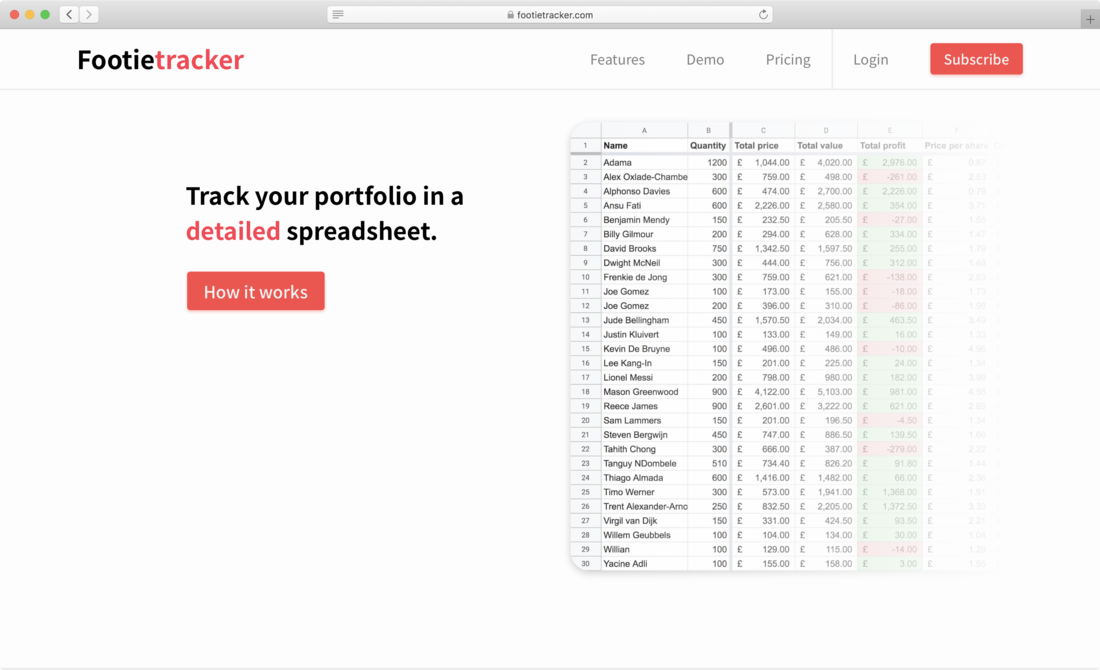
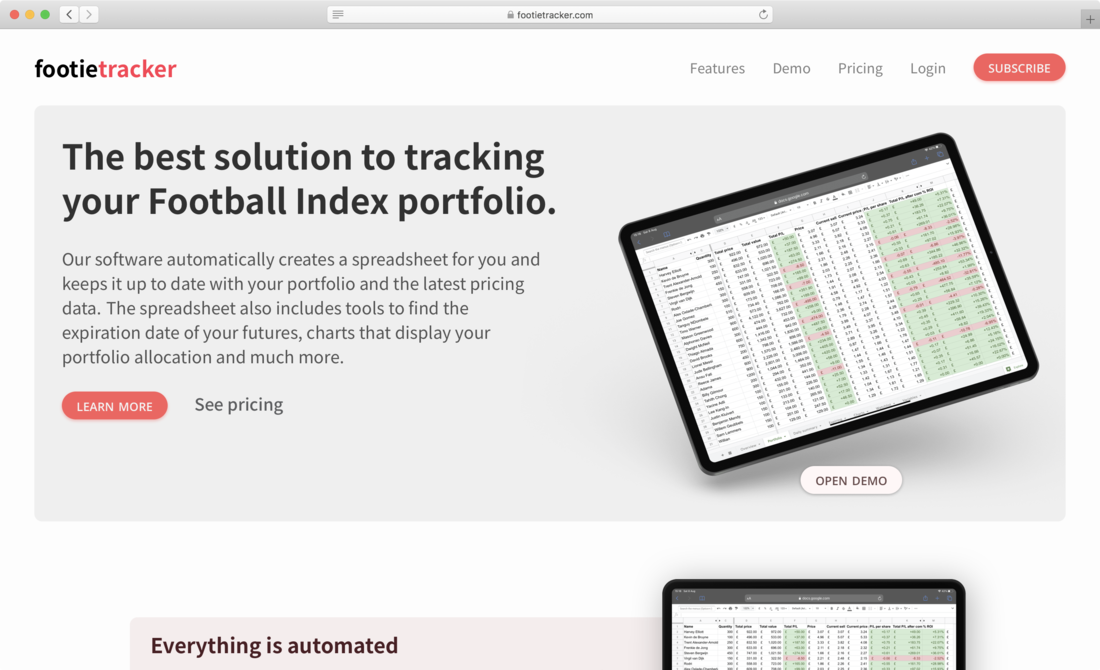
Update Footietracker image and add shadow to single showcase images

diff --git a/assets/styles/pages/index.scss b/assets/styles/pages/index.scss
@@ -100,6 +100,11 @@ section.work {
           height: auto;
         }
       }
+      div.showcase.single {
+        img {
+          box-shadow: 0px 1px 7px rgba(0, 0, 0, 0.1);
+        }
+      }
       div.showcase.double {
         display: flex;
         flex-direction: row;

diff --git a/content/work/footietracker/index.en.md b/content/work/footietracker/index.en.md
@@ -2,7 +2,7 @@
 draft = false
 title = "Footietracker"
 date = 2019-04-05T23:26:14+01:00
-weight = 4
+weight = 3
 
 endDate = 2020-01-05T23:26:14+01:00
 company = "Footietracker"

diff --git a/content/work/footietracker/index.nl.md b/content/work/footietracker/index.nl.md
@@ -2,7 +2,7 @@
 draft = false
 title = "Footietracker"
 date = 2019-04-05T23:26:14+01:00
-weight = 4
+weight = 3
 
 endDate = 2020-01-05T23:26:14+01:00
 company = "Footietracker"

diff --git a/content/work/benmar-ltd/index.en.md b/content/work/benmar-ltd/index.en.md
@@ -2,7 +2,7 @@
 draft = false
 title = "Benmar Ltd."
 date = 2018-06-30T23:26:14+01:00
-weight = 1
+weight = 4
 
 endDate = 2020-01-05T23:26:14+01:00
 company = "Benmar Limited"

diff --git a/content/work/benmar-ltd/index.nl.md b/content/work/benmar-ltd/index.nl.md
@@ -2,7 +2,7 @@
 draft = false
 title = "Benmar Ltd."
 date = 2018-06-30T23:26:14+01:00
-weight = 1
+weight = 4
 
 endDate = 2020-01-05T23:26:14+01:00
 company = "Benmar Limited"

diff --git a/content/work/netflix-concept/index.en.md b/content/work/netflix-concept/index.en.md
@@ -2,7 +2,7 @@
 draft = false
 title = "Netflix redesign"
 date = 2019-10-30T15:09:33+02:00
-weight = 3
+weight = 1
 
 endDate = 2020-07-24T15:09:33+02:00
 company = ""

diff --git a/content/work/netflix-concept/index.nl.md b/content/work/netflix-concept/index.nl.md
@@ -2,7 +2,7 @@
 draft = false
 title = "Netflix redesign"
 date = 2019-10-30T15:09:33+02:00
-weight = 3
+weight = 1
 
 endDate = 2020-07-24T15:09:33+02:00
 company = ""
